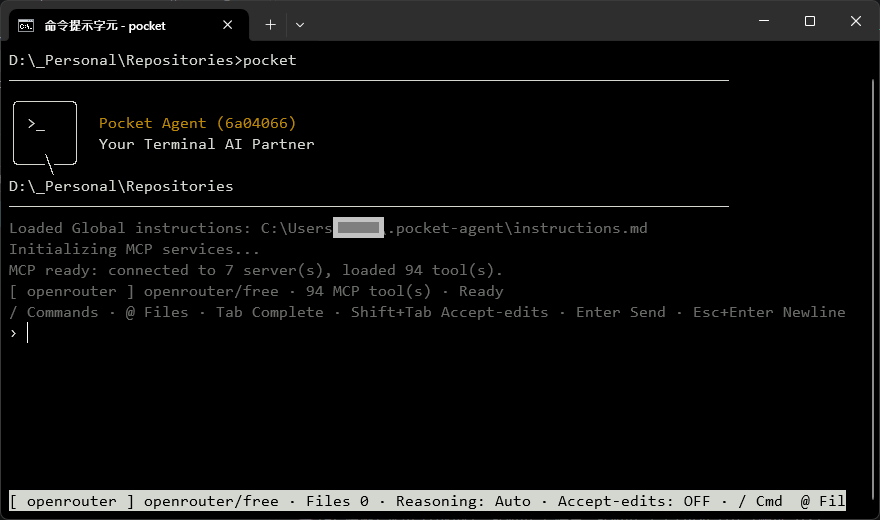
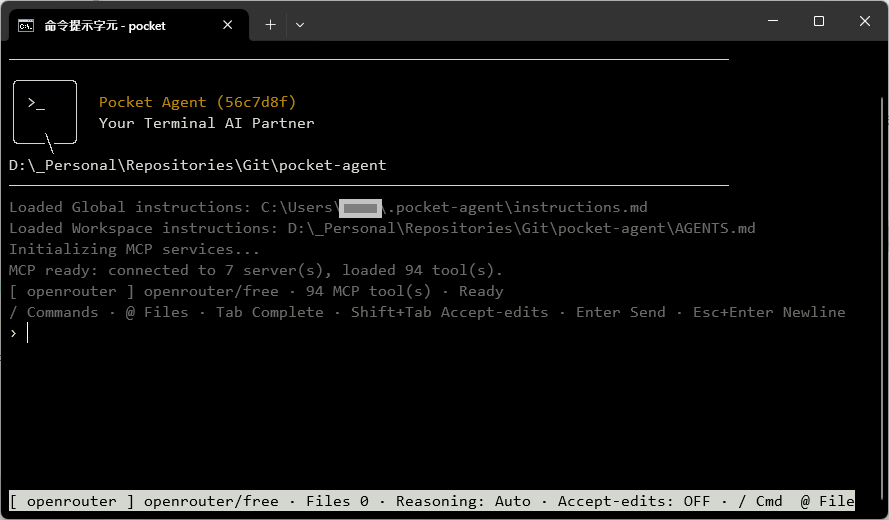
docs(readme): update screenshots and visual assets for CLI features
Update README.md and README.zh-TW.md with new preview images and descriptions
to reflect the latest interactive CLI features, live execution workspace,
and background subagent status bar accurately.

diff --git a/README.md b/README.md
@@ -17,7 +17,7 @@ Its key advantage is **OAuth PKCE authentication directly integrated with the Ch
 > ⚠ **Important Disclaimer**: This tool (including the core agent and all built-in/external MCP servers) can execute local shell commands, read/write files, and interact with remote hosts and browsers, while LLM outputs are non-deterministic. Users must review every operation and assume all risks; any unintended behavior or resulting damage has no relation to the original author(s). Please read the full [Disclaimer](#-disclaimer) section before use.
 
 <p align="center">
-  <img src="docs/assets/02-main-1.png" alt="PocketAgent interactive CLI main screen with MCP servers loaded" width="760" />
+  <img src="docs/assets/02-main-4.png" alt="PocketAgent live execution with workspace AGENTS.md, model switching, built-in tools, and MCP tool calls" width="760" />
 </p>
 
 ### 📑 Table of Contents
@@ -132,9 +132,9 @@ The interactive wizard guides you through five steps (defaults to English if `lo
 
 Once started, the CLI displays an interactive conversation prompt with a live bottom toolbar showing the active model, reasoning effort, pending attachments, and cumulative token usage; when background subagents are running or ready to collect, a second highlighted status line automatically appears with live progress and collection hints.
 
-| Slash Commands & Skill Auto-Completion | Background Subagent (`/bg`) & Live Status Bar |
+| Launch & MCP Status (`pocket`) | Slash Commands & Skill Auto-Completion |
 | :---: | :---: |
-| ![Slash command and skill auto-completion](docs/assets/02-main-2.png) | ![Background read-only subagent with two-line live status bar](docs/assets/02-main-3.png) |
+| ![PocketAgent interactive CLI startup screen](docs/assets/02-main-1.png) | ![Slash command and skill auto-completion](docs/assets/02-main-2.png) |
 
 ### Terminal Shortcuts
 
@@ -186,6 +186,10 @@ Type any of the following `/` commands at the prompt:
 - `/jobs [list | all | show [id] | collect [id|all] | cancel <id|all> | clear]`: Manage background subagent jobs; defaults to active/uncollected jobs (`all` shows full history, `show`/`collect` open an interactive selector when `id` is omitted, `show` previews results without spending main-context tokens, `collect` injects completed reports into main conversation history or use `collect all`, and `clear` removes finished records).
 - `/skills [name]`: List all available global and workspace skills, or view a specific skill's SOP.
 - `/learn`: Analyze recent conversation context and interactively extract a reusable skill.
+
+<p align="center">
+  <img src="docs/assets/02-main-3.png" alt="Background read-only subagent (/bg) with two-line live status bar" width="760" />
+</p>
 
 #### 🔧 System Settings & Maintenance
 

diff --git a/README.zh-TW.md b/README.zh-TW.md
@@ -17,7 +17,7 @@
 > ⚠ **重要免責提醒（Important Disclaimer）**：本工具（含核心代理與所有內建／外掛 MCP 伺服器）具備執行本機指令、讀寫檔案及操作遠端主機與瀏覽器之能力，且 AI 模型輸出具非確定性。使用者須自行審查操作並承擔一切風險，任何非預期行為或衍生損害皆與原作者無關。使用前請務必詳閱文末完整的「免責聲明（Disclaimer）」章節。
 
 <p align="center">
-  <img src="docs/assets/02-main-1.png" alt="PocketAgent 互動式終端機主畫面與 MCP 載入狀態" width="760" />
+  <img src="docs/assets/02-main-4.png" alt="PocketAgent 實戰執行畫面：工作區 AGENTS.md 載入、即時模型切換、內建工具與外部 MCP 工具呼叫" width="760" />
 </p>
 
 ### 📑 目錄 (Table of Contents)
@@ -132,9 +132,9 @@ pocket setup
 
 啟動後，終端機將呈現互動式對話面板。底端狀態列會即時顯示當前模型、推理強度、待送附件數與累計 Token 用量；當有背景子代理執行或待取回報告時，狀態列會自動展開第二行即時顯示進度與取回提示。
 
-| 斜線指令與 Skill 自動補全 | 背景子代理（`/bg`）與雙行即時狀態列 |
+| 啟動主畫面與 MCP 狀態（`pocket`） | 斜線指令與 Skill 自動補全 |
 | :---: | :---: |
-| ![斜線指令與 Skill 自動補全選單](docs/assets/02-main-2.png) | ![背景唯讀子代理與雙行即時狀態列](docs/assets/02-main-3.png) |
+| ![PocketAgent 互動式終端機啟動畫面](docs/assets/02-main-1.png) | ![斜線指令與 Skill 自動補全選單](docs/assets/02-main-2.png) |
 
 ### 終端互動快捷鍵
 
@@ -186,6 +186,10 @@ pocket setup
 - `/jobs [list | all | show [id] | collect [id|all] | cancel <id|all> | clear]`：管理背景子代理工作；預設僅顯示執行中與待取回項目，`all` 查看完整歷史，`show`／`collect` 省略 `id` 時開啟互動選單（`show` 僅預覽不耗用主對話 Token，`collect` 將完成報告注入主對話歷史，或用 `collect all` 一次全收），`clear` 清除已結束紀錄。
 - `/skills [name]`：列出當前所有可用的全域與專案專屬技能 (Skills)，或檢視特定技能 SOP。
 - `/learn`：由 AI 分析當前對話脈絡，互動式萃取並存為可重複呼叫的新技能。
+
+<p align="center">
+  <img src="docs/assets/02-main-3.png" alt="非阻塞背景唯讀子代理（/bg）與雙行即時狀態列" width="760" />
+</p>
 
 #### 🔧 系統設定與維護
 
